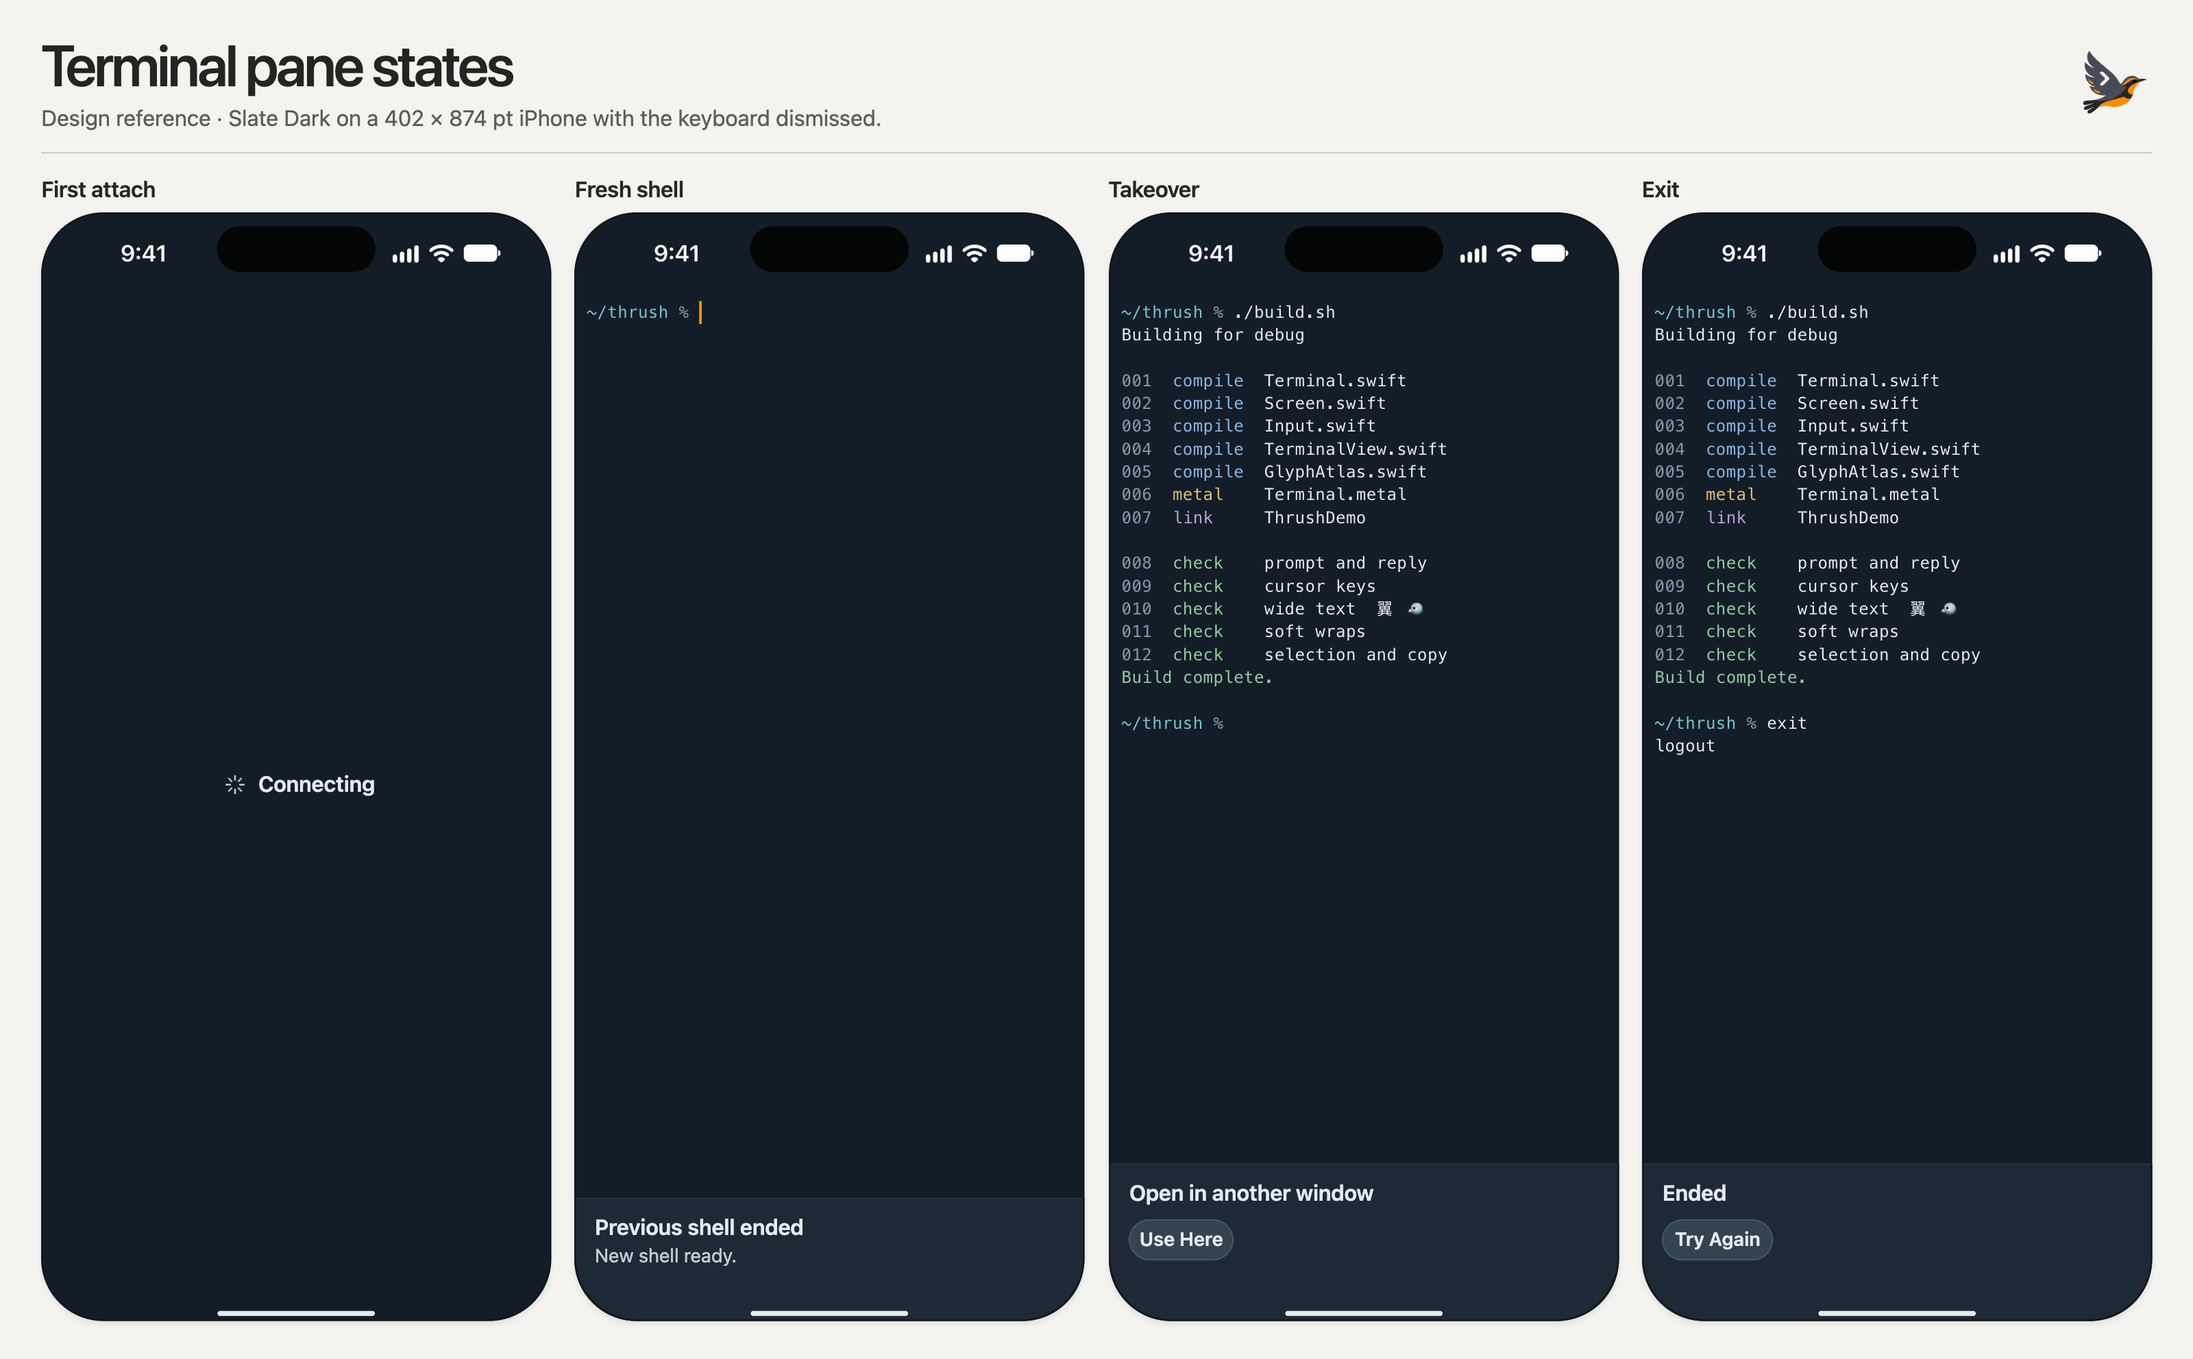
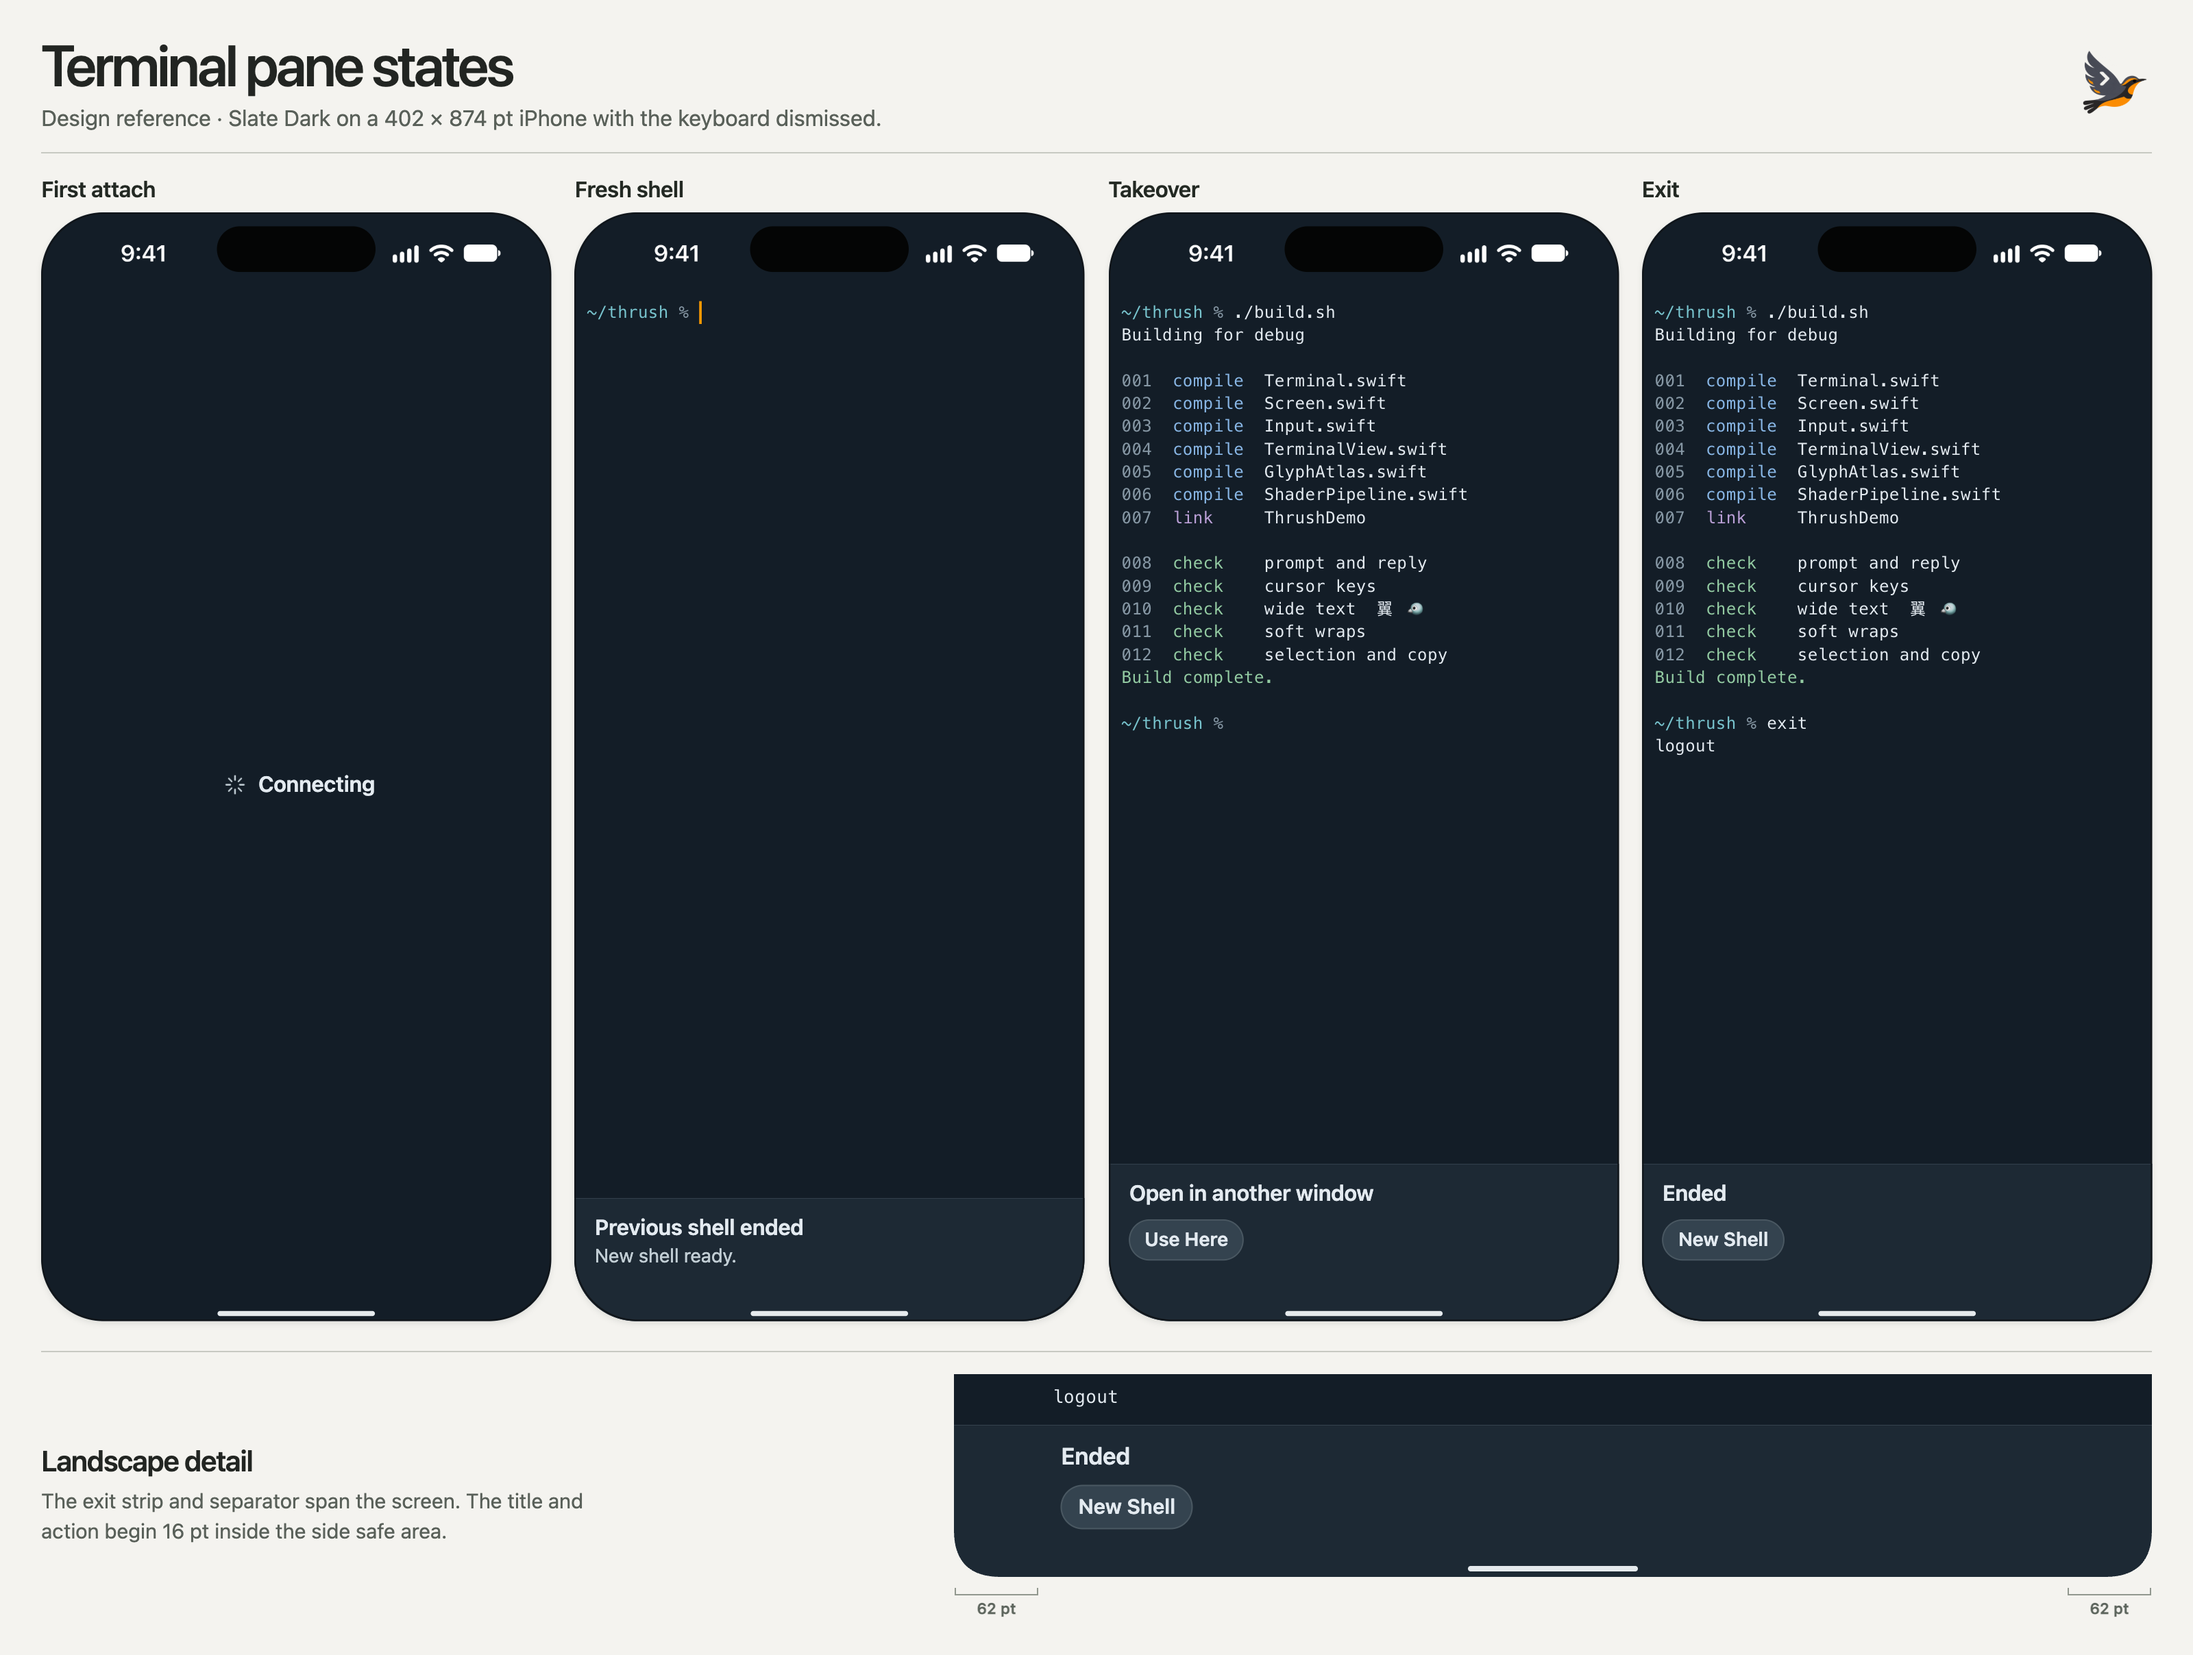
Present New Shell in an edge-to-edge terminal status strip
Copilot-Session: 403e7986-3f96-4b76-8783-d65ce6c966ed

diff --git a/docs/design/pane-states.md b/docs/design/pane-states.md
@@ -1,8 +1,8 @@
 # Terminal pane connection states
 
-`TerminalPane(terminal)` owns these states on Mac and iPhone. Its normal appearance is the terminal alone. **Use Here** is the only action that takes a shell back from another window. **Try Again** starts a fresh shell after exit. Both work with the iPhone keyboard down. The app that embeds the pane supplies its socket factory and can optionally observe exit.
+`TerminalPane(terminal)` owns these states on Mac and iPhone. Its normal appearance is the terminal alone. **Use Here** is the only action that takes a shell back from another window. **New Shell** starts a fresh shell after exit. Both work with the iPhone keyboard down. The app that embeds the pane supplies its socket factory and can optionally observe exit. Toy Box keeps its viewer open on exit, so the final output and New Shell action remain available.
 
-![Four iPhone Slate Dark design references at the default text size, showing Connecting, Previous shell ended with a new prompt, Open in another window with Use Here, and Ended with Try Again](pane-states.png)
+![Four iPhone Slate Dark design references at the default text size, showing Connecting, Previous shell ended with a new prompt, Open in another window with Use Here, and Ended with New Shell](pane-states.png)
 
 ## Exact copy and input
 
@@ -12,9 +12,9 @@
 | An attached shell loses its socket | **Reconnecting**<br>Typing waits for this shell to resume. | Keep the last displayed transcript. The connection holds committed text, paste and keys in order. The old prompt stays still. Release unsent input once, only after `ready(resumed: true)` and its replay restore the shell and its input modes. |
 | A fresh shell unexpectedly replaces the one this connection had | **Previous shell ended**<br>New shell ready. | Clear the old grid, selection, marked text, Ctrl latch and held input. The new shell accepts new input. If input was held, use **New shell ready. Held input was discarded.** as the second line. Base the notice on the server’s fresh ready and the adapter’s replacement flag. |
 | Another window takes the shell | **Open in another window**<br>**Use Here** | Show the last frame for reading, selection and copy. Stop automatic reconnect. Only activation of the native button requests ownership. The activation sends zero terminal bytes. Touching output, scrolling, moving focus, foregrounding and typing ordinary characters leave ownership with the other window. |
-| The shell exits | **Ended**<br>**Try Again** | Finish applying the last output and present the final frame before displaying Ended or invoking the optional `onExit` for that exit. Keep the transcript readable and copyable. Try Again requests a fresh shell with the same connection configuration and an empty input queue. |
+| The shell exits | **Ended**<br>**New Shell** | Finish applying the last output and present the final frame before displaying Ended or invoking the optional `onExit` for that exit. Keep the transcript readable and copyable. New Shell requests a fresh shell with the same connection configuration and an empty input queue. |
 
-On **Use Here** or **Try Again**, consume the button activation exactly once and retain the transcript through the request. Show **Connecting** there if the request takes longer than 200 ms. Replace the old transcript when the new shell is ready. An explicit Try Again has already told the user the old shell ended, so its successful fresh start goes directly to the new grid. If Use Here resumes a shell, wait for replay. If it discovers that the previous shell ended, show the replacement notice.
+On **Use Here** or **New Shell**, consume the button activation exactly once and retain the transcript through the request. Show **Connecting** there if the request takes longer than 200 ms. Replace the old transcript when the new shell is ready. Choosing New Shell acknowledges the exit. On success, go directly to the new grid. If Use Here resumes a shell, wait for replay. If it discovers that the previous shell ended, show the replacement notice.
 
 Keep the replacement notice until the user commits input in the new shell and has had at least three visible seconds to read it. Scrolling, selecting and copying preserve the notice. Defer removal while VoiceOver is reading it. An ordinary successful resume needs no success message.
 
@@ -31,7 +31,7 @@ A live socket can send `ready(resumed: true)` to refresh a screen after the read
 ![Mac Slate Light design reference showing a retained transcript and a Reconnecting status area above the lower safe edge](pane-reconnecting.png)
 
 - **First attach.** Start on the opaque terminal canvas. After 200 ms, center a small native activity indicator and **Connecting** as a group in the usable pane. Cancel the pending reveal on a quick connection or if the pane leaves the window. Apply the same delay to a reconnect. One continuous outage produces one notice across all retry attempts.
-- **With a transcript.** Put a native status area at the lower edge of the usable pane, above the accessory, keyboard or bottom safe area. Give it one top separator and the opaque host backing. Align the heading, detail and button to the leading edge. Put the action directly below the heading. Keep it visible while the user reads history. The live grid has no permanent status area.
+- **With a transcript.** Put a native status area at the lower edge of the usable pane, above the accessory, keyboard or bottom safe area. Extend the opaque backing and its single top separator to both physical edges of the pane, including the side safe areas in landscape and the trailing rail on a folded iPhone Duo. Apply the content padding inside the safe area so the heading, detail and button remain readable and tappable. Toy Box supplies the floating title and Close control at the top. Put the action directly below the heading. Keep it visible while the user reads history. The live grid has no permanent status area.
 - **Reading.** Keep the live prompt or the selected logical line visible as the area appears. Output scrolls above the status area. The final line, selection handles and edit menu stay reachable. A status is native UI, so copying text or replaying a session never inserts these words into the transcript. Preserve whole cells. A fade, an animation tick or a retry attempt sends no resize. Keyboard or container changes still report each distinct settled grid size.
 - **Type and controls.** At the default sizes use 17 pt semibold and 15 pt regular on iPhone, 13 pt semibold and 12 pt regular on Mac. Use platform UI type for statuses and SF Mono for output. On iPhone give the contents 16 pt horizontal and 8 pt vertical padding, and buttons a minimum 44 × 44 pt hit area. On Mac use 12 pt horizontal padding and a regular native button. Let localized text and accessibility sizes wrap before shrinking the type. On a short landscape viewport the status contents can scroll when needed to keep the button reachable.
 - **Color.** Slate Dark pairs `#E3EAF0` text and `#1D2934` backing, with a `#35424E` separator. Slate Light pairs `#233442` text and `#E8EEF1` backing, with a `#B7C3CA` separator. Secondary text can use `#8697A4` in Dark and `#586D7B` in Light, for 4.92:1 and 4.61:1 contrast on their backings. Keep status and buttons in the host appearance when a program changes ANSI colors or uses reverse video. The status surface is already opaque under Reduce Transparency.
@@ -41,7 +41,7 @@ A live socket can send `ready(resumed: true)` to refresh a screen after the read
 
 Keep the keyboard and input focus through a short reconnect if the user was typing. Hold only committed input. IME preedit remains local. Takeover and exit end terminal input, clear composition and the one-shot modifier, and allow the software keyboard to dismiss. When Use Here succeeds with the keyboard down, leave it down. One tap has restored ownership, and touching the live grid then opens the keyboard. A passive reconnect never summons the keyboard or takes focus from another app control.
 
-Expose each status as native text and each action as a native button in focus order. Announce a newly visible state once without moving VoiceOver’s reading position or repeating announcements during backoff. The takeover button’s accessibility label is **Use shell in this window**. Include the visible caption **Use Here** among its Voice Control commands. The exit action is **Try Again**. A focused button accepts standard keyboard or assistive activation. Status symbols are decorative.
+Expose each status as native text and each action as a native button in focus order. Announce a newly visible state once without moving VoiceOver’s reading position or repeating announcements during backoff. The takeover button’s accessibility label is **Use shell in this window**. Include the visible caption **Use Here** among its Voice Control commands. The exit button’s visible title, accessibility label and Voice Control command are **New Shell**. Its accessibility hint is “Starts a new shell.” A focused button accepts standard keyboard or assistive activation. Status symbols are decorative.
 
 For sign-off, capture all four states on the running iPhone pane in Slate Dark at default text size, with the keyboard down for takeover. Record a reconnect while typing on iPhone and in a Mac window, and exercise the two actions. Verify a short reconnect never flashes, an interrupted Vim session restores its key modes before releasing held input, a replacement discards the held input, and Cmd-C or touch Copy still copies the final line after exit. Review Slate Light, landscape, large type, Reduce Motion, Reduce Transparency and VoiceOver in the running hosts. The figures above are design references. The Toy Box integration uses these same package-owned surfaces.
 
